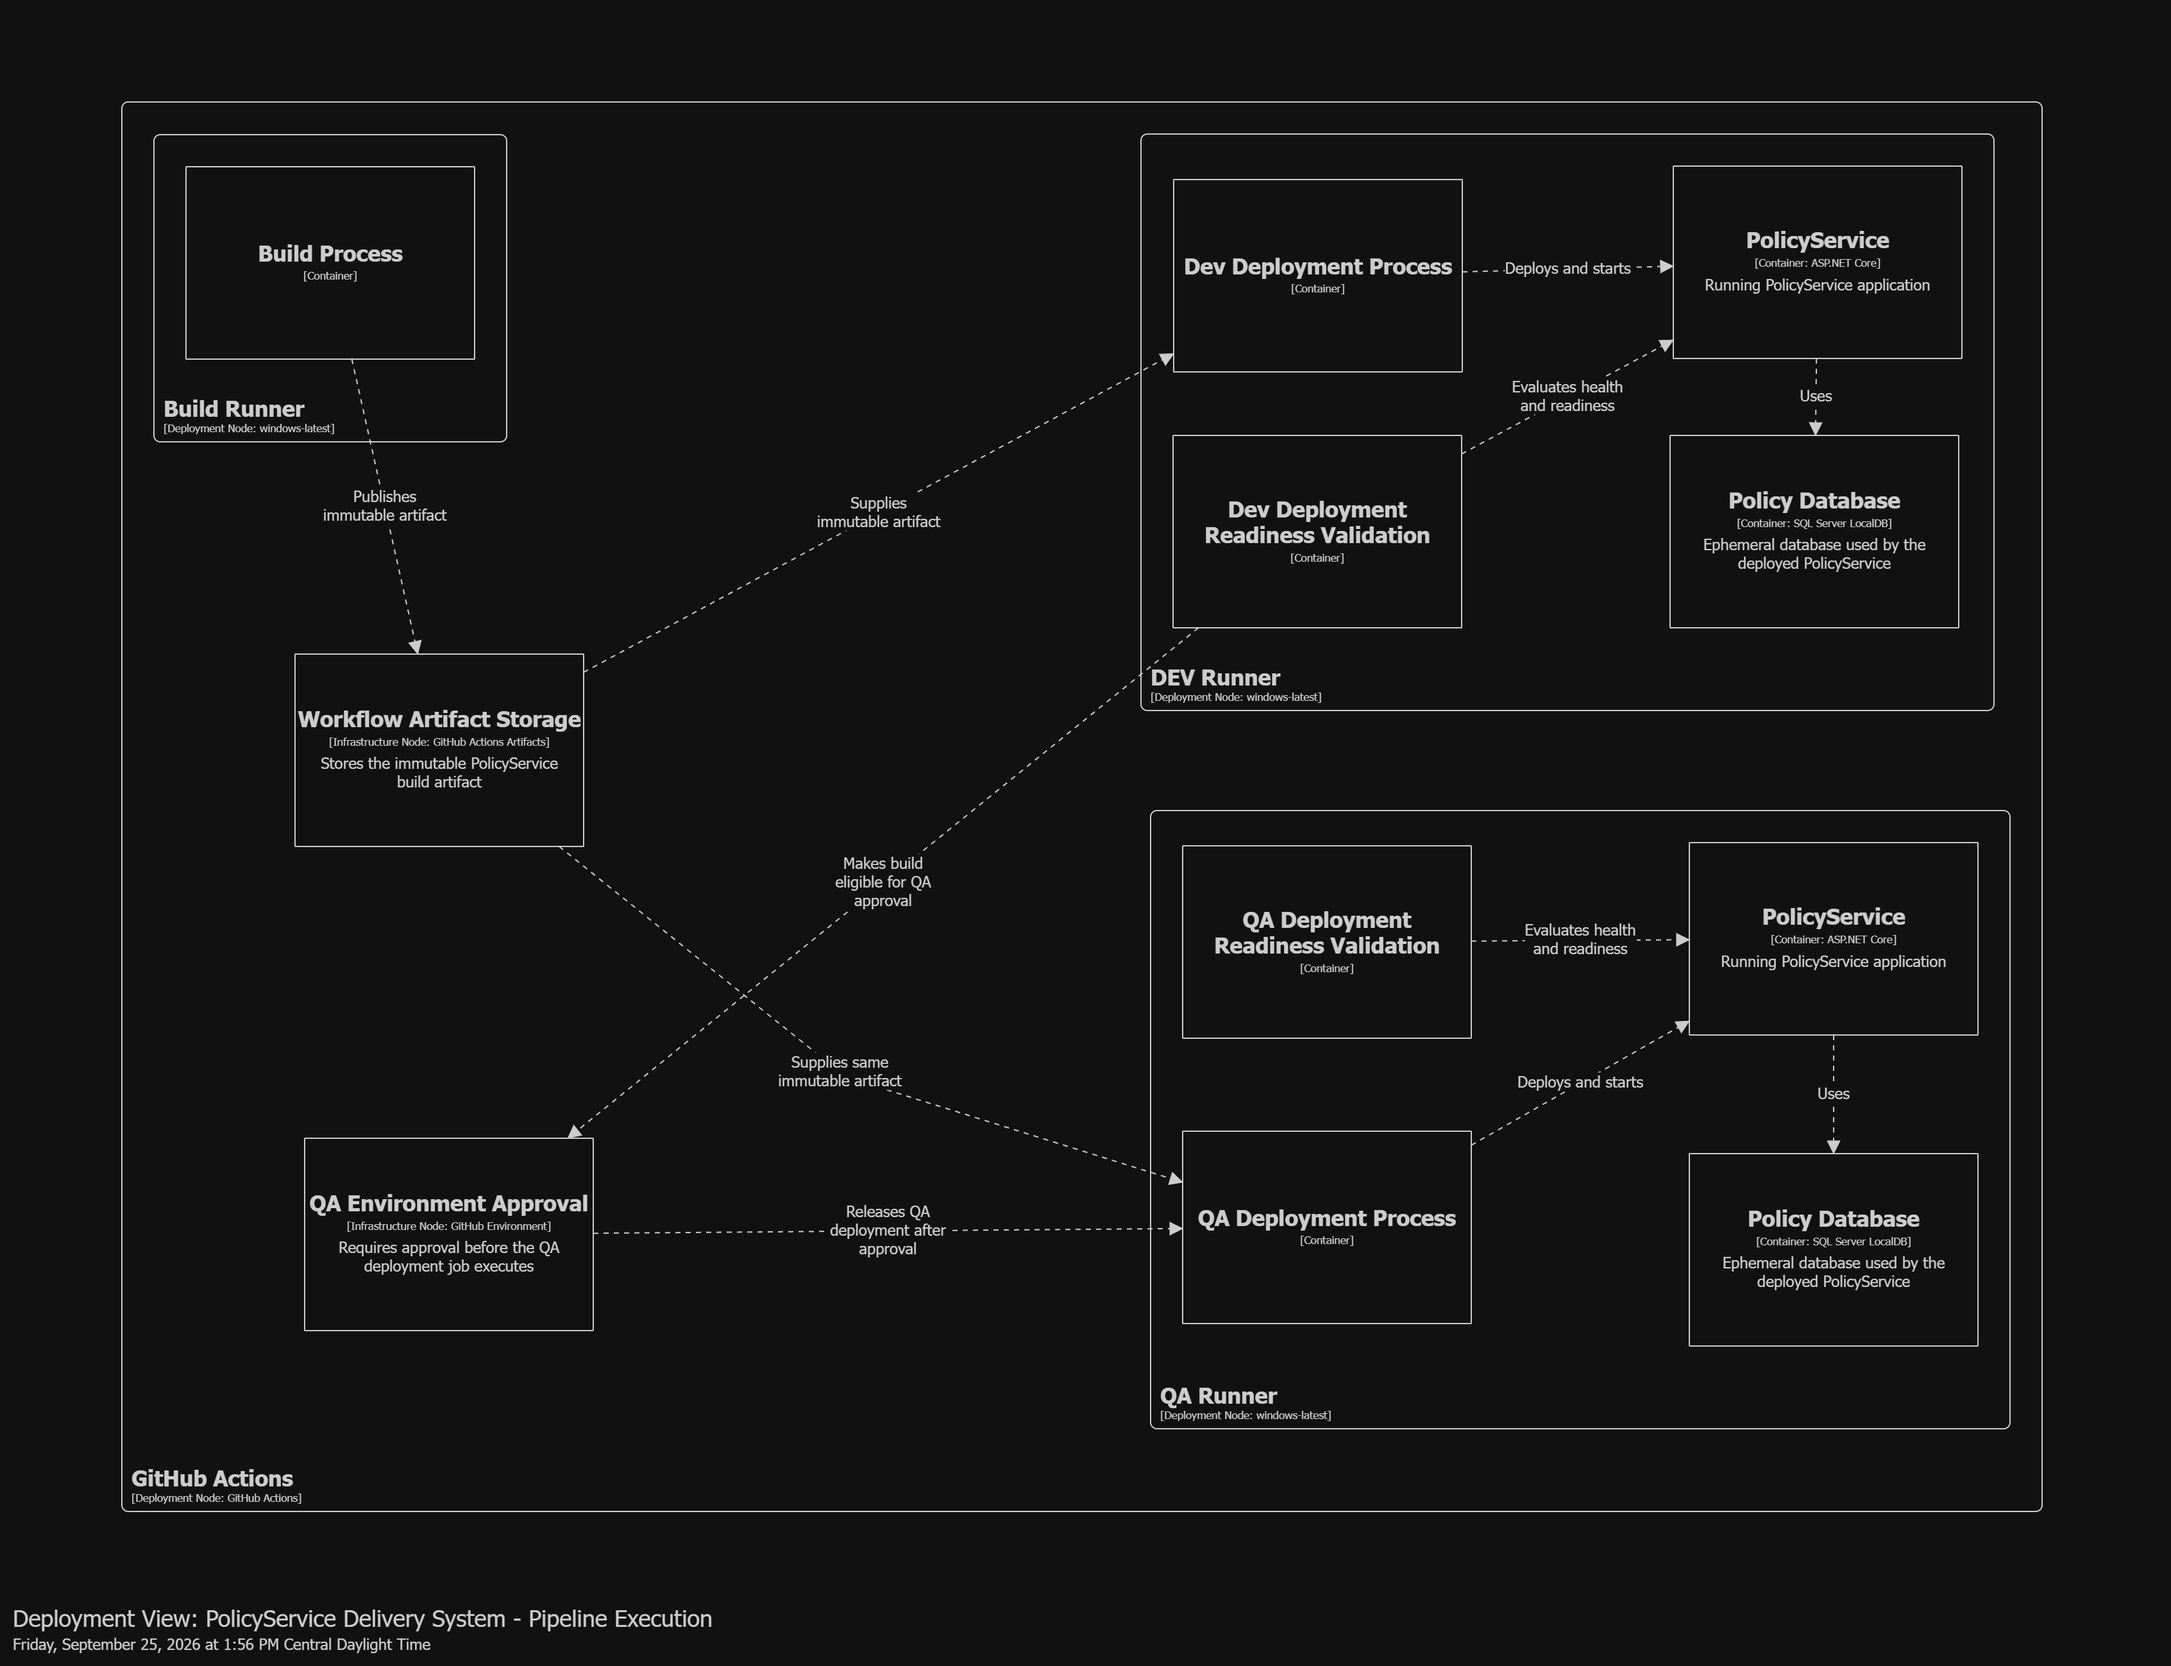
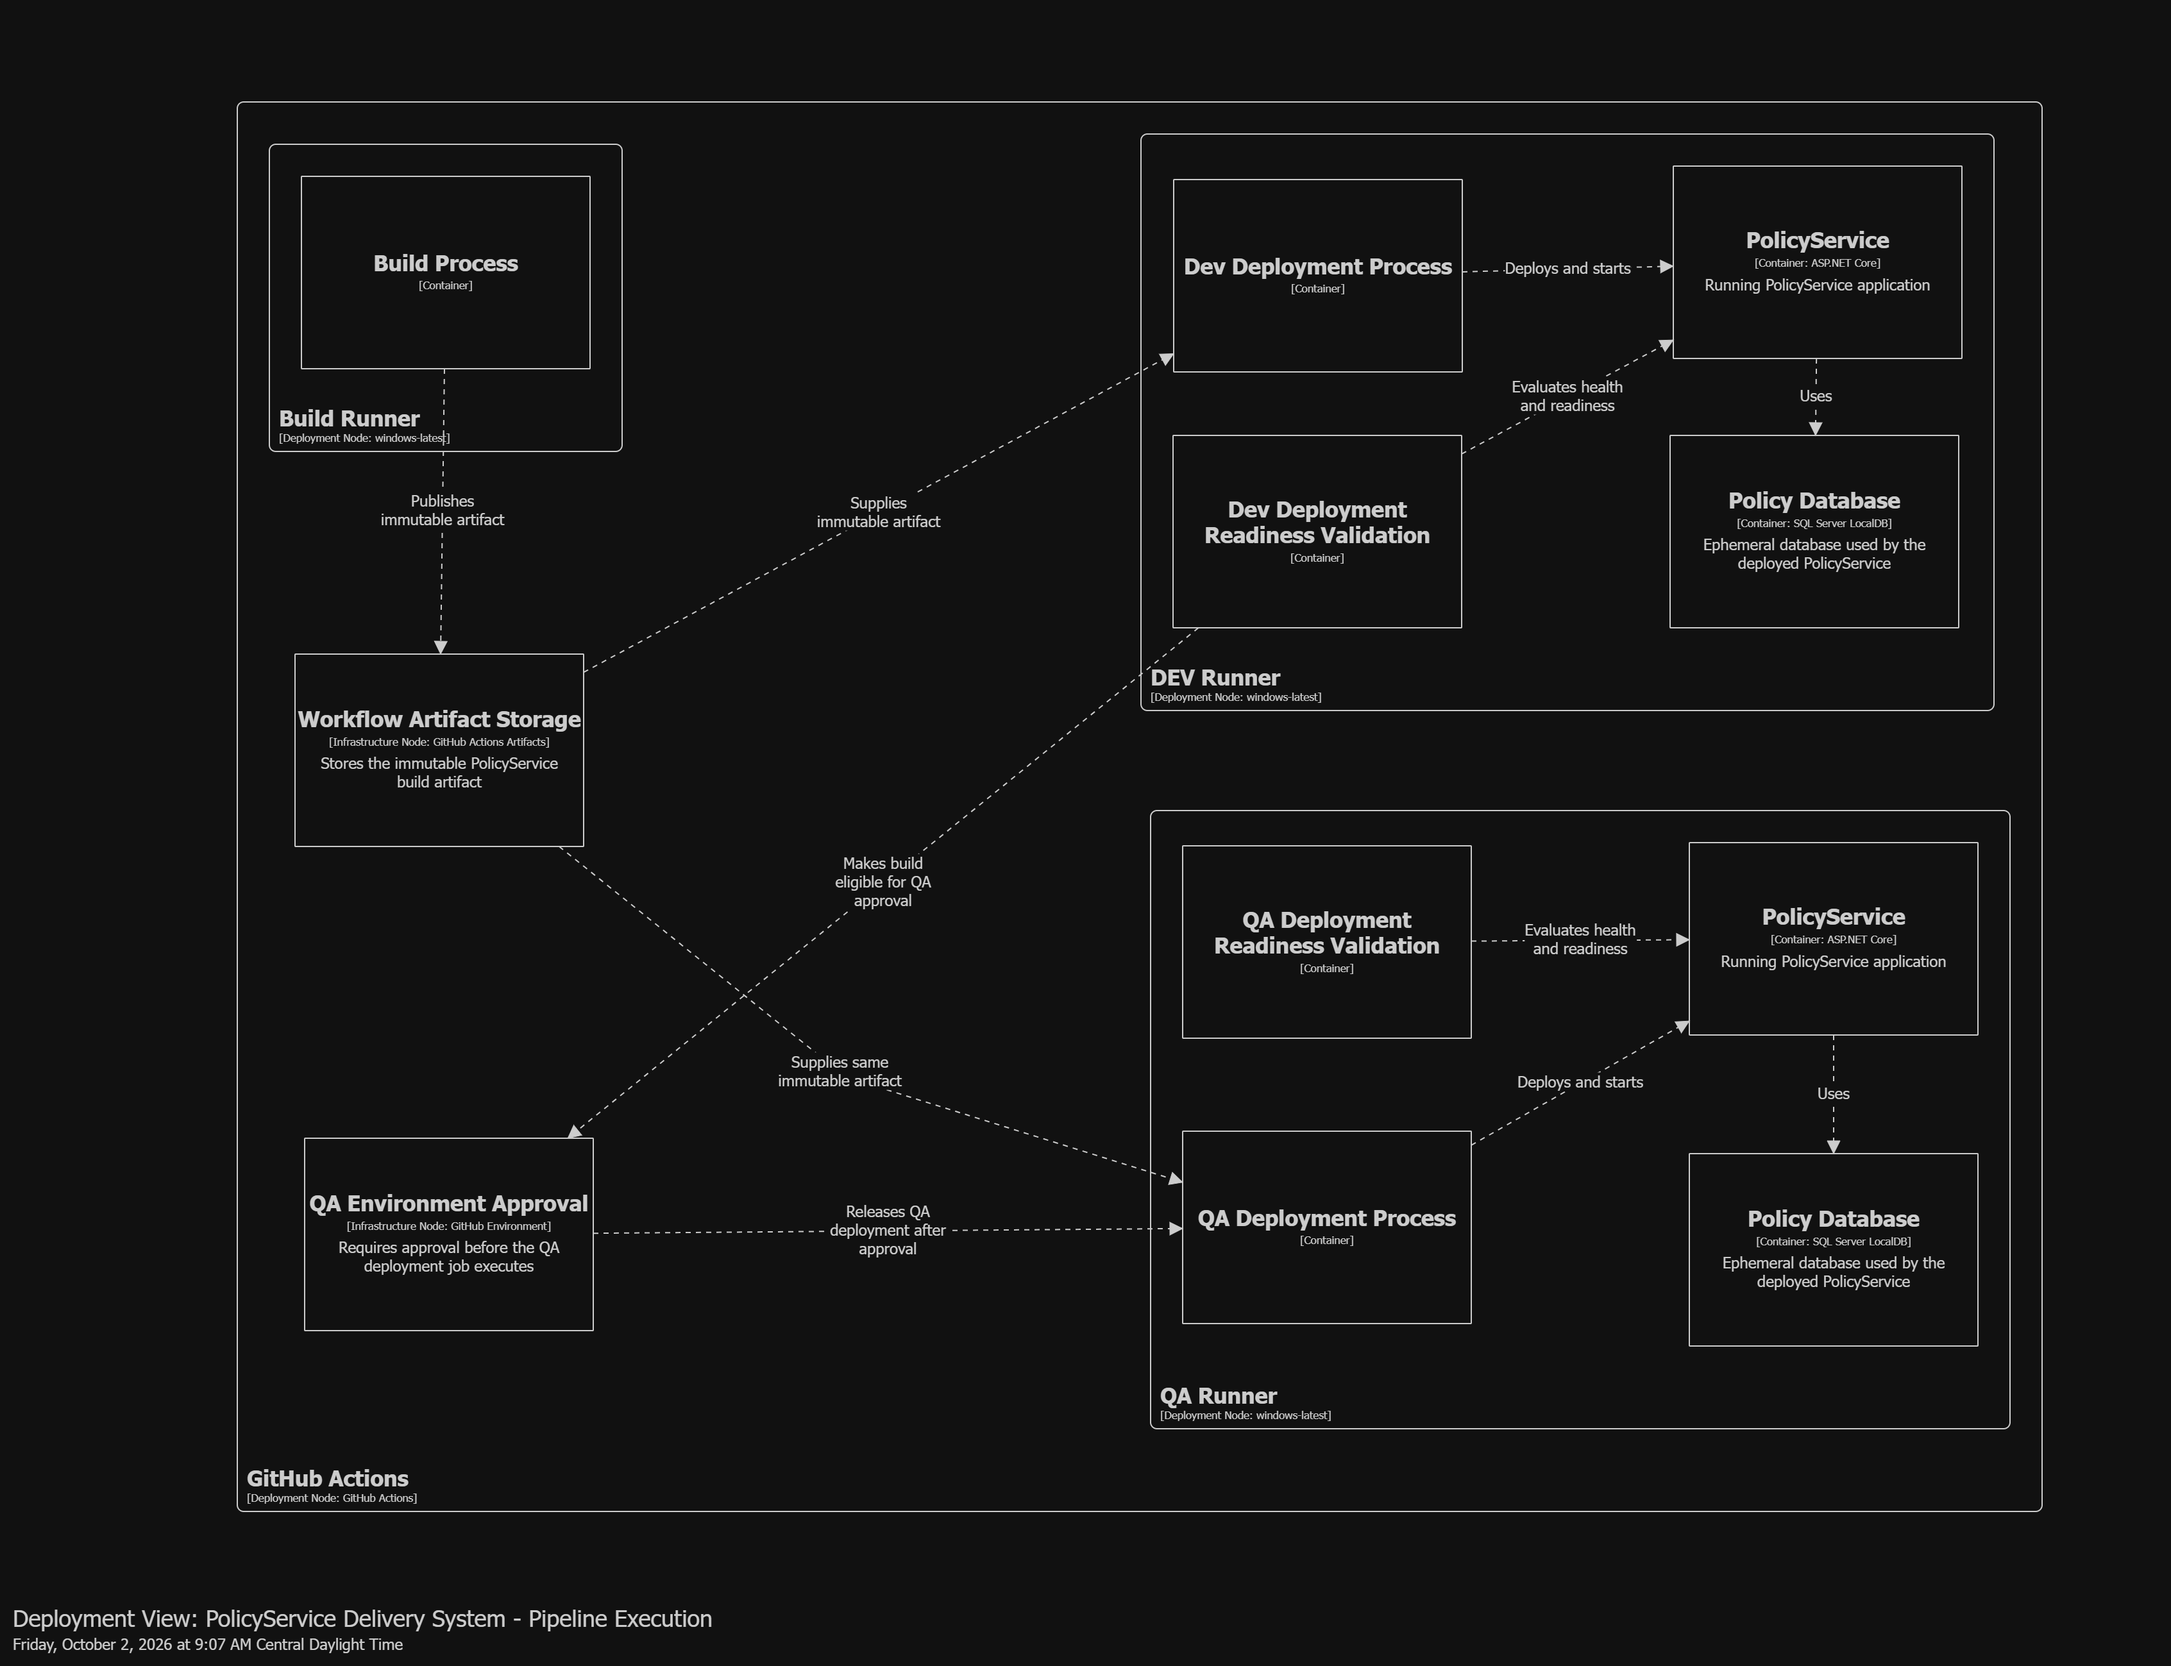
Updating the container diagrams, retrospective, and workbook responses.

diff --git a/docs/week-04/workbook-responses.md b/docs/week-04/workbook-responses.md
@@ -1,0 +1,46 @@
+## Reflection prompts:
+
+R1. Which diagram would you show an executive? Which would you show an engineer implementing the system?
+
+I would show an executive the System Context View, and possibly the Container view as well depending on how much they wanted to understand about the system and their level of technical expertise. 
+
+An engineer would need to see the container view, and if they are also involved in the operations and deployment, the deployment view as well.
+
+R2. What decision is expensive enough to deserve an ADR?
+
+We had 2:  
+The independent readiness validation ADR was important because it cleanly separated and decoupled the validation process from deployment, which adds significant maintainability, clarity, and flexibility.  
+ 
+The Delivery Evidence Storage ADR was significant because it adds an additional external dependency that must be owned and maintained, but adds value because it offers simple persistence and access to our evidence records.
+
+Both of these add value but are also costly to reverse. 
+
+R3. Which implementation details are intentionally absent from your diagrams?
+
+Details such as specific classes, methods, configuration, scripts, credentials, and endpoints are specifically left out as details of the system that are left up to the implementer. These can easily be changed and have much less impact on how the different components of the system interact with each other.
+
+## Knowledge check:
+
+1. When should you create an ADR?
+
+When there is a decision that needs to be made which impacts software architecture/structure, non-functional requirements, dependencies, or interfaces. Also, if a decision may impact a significant amount of resources or will be difficult to change at a later date. ADR records the decision, context, consequences, and often alternatives. 
+
+2. Why should an architecture diagram avoid showing every class?
+
+Architecture diagrams are meant to display a high level description of logical boundaries, dependencies, and control flow. Adding in every class just adds noise and reduces the clarity of how components relate to each other
+
+3. What question does a system-context diagram answer?
+
+A system context diagram targets a single system and mainly focuses on its direct dependencies, without exposing its internal workings. It's purpose is to give the context in which the system lives
+
+4. What is a quality attribute?
+
+A measurable, testable property of a system that describes how well it operates, not what it does or how. Also known as a Non-Functional Requirement.
+
+5. Why is maintainability an architecture concern?
+
+Because often the decisions made at the architectural level are the decisions that have the most impact on the cost and ability to maintain the system. How systems are organized, how control flows, and how components are coupled together have a disproportionate impact on maintenance.
+
+6. What is the difference between architecture and implementation?
+
+Architecture is the high level design of a system, and often outlines abstractions, dependencies, and control flow. An implementation is the actual system that is built, with concrete tools, processes. and configurations as they are outlined in the Architecture.

diff --git a/docs/week-04/retrospective.md b/docs/week-04/retrospective.md
@@ -1,0 +1,17 @@
+Week 4 Retrospective
+
+A. What became clearer this week?
+
+What an ADR is, and when and how we should create them. 
+
+B. What was harder than expected?
+
+Walking through the steps of an abstract ADR that has meaning takes more focus and creativity than I anticipated. 
+
+C. What would I do differently in a production system?
+
+In a production system, I would probably have to clear any additional external dependencies with the team or leadership. I would also likely work with a team to write the ADRs. 
+
+D. What artifact best demonstrates growth?
+
+The 2 new ADRs and the udpated diagrams. 
